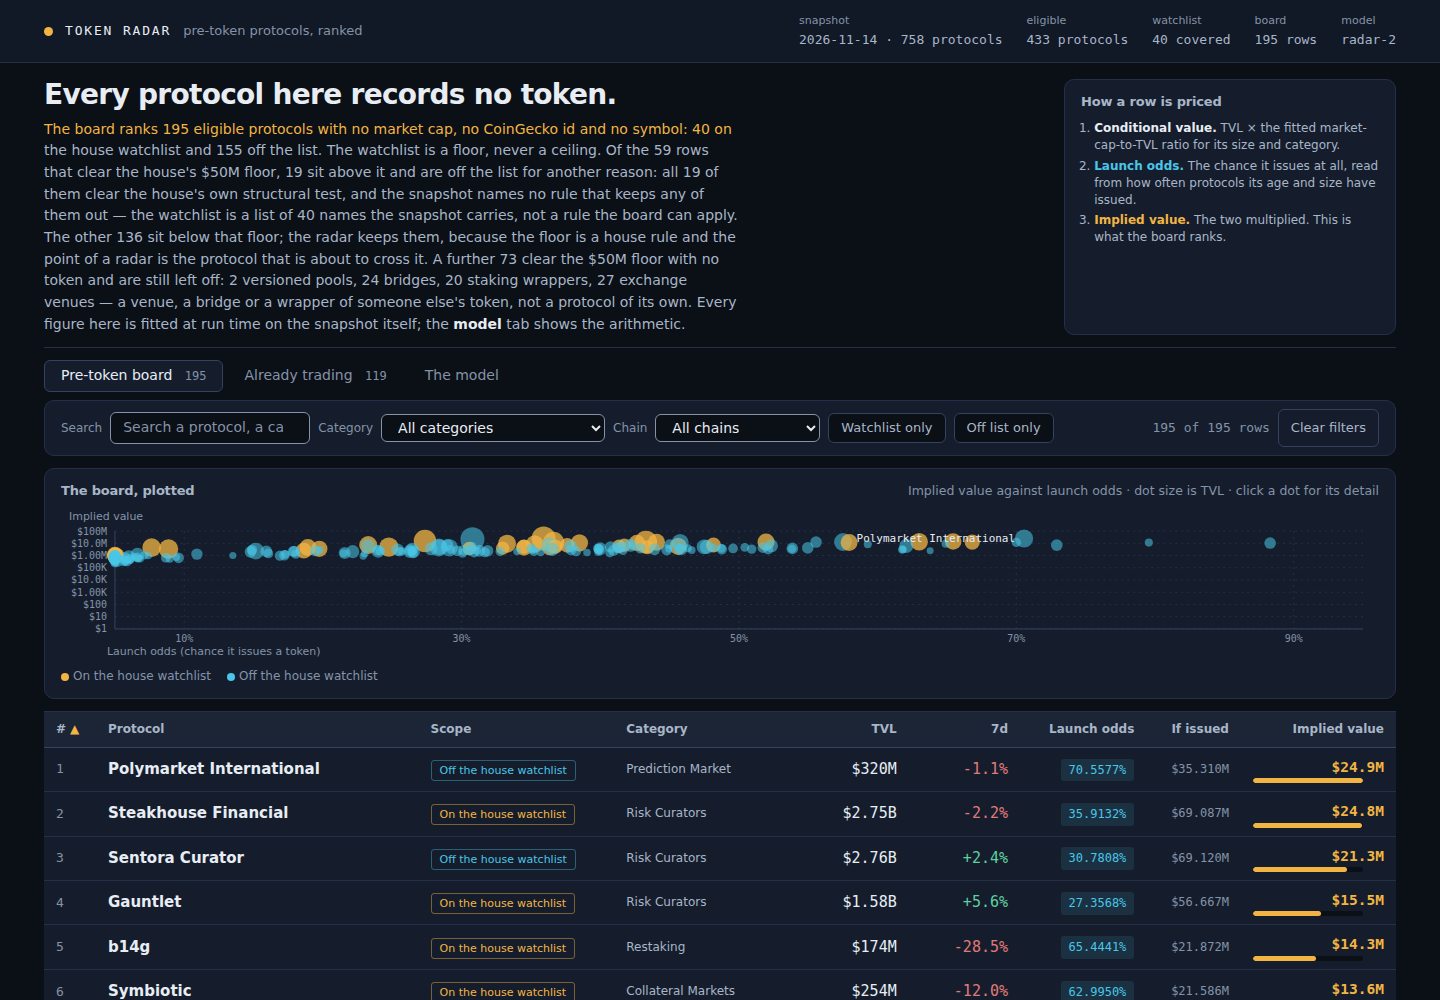
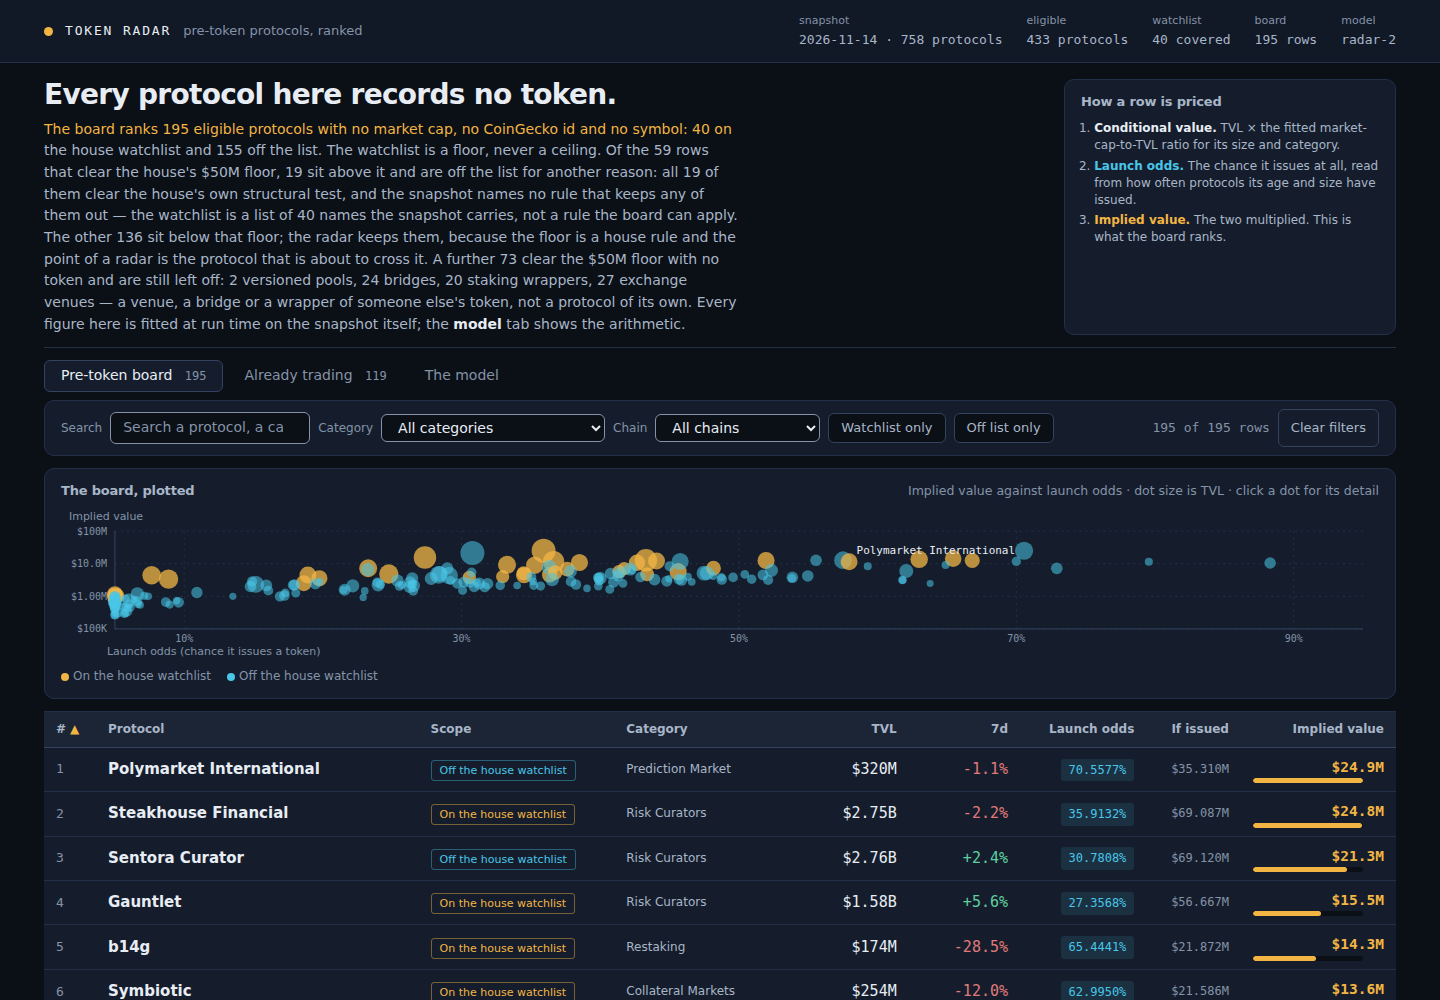
The plot's scale ran from $1, so every row landed in one decade and the judge saw a smear
The board's implied values span about two decades ($268K to $24.9M), but the
plot's y-axis ran from $1 to $100M: nine grid lines over 150px, and 136 of the
195 rows inside the single $1K-$10K one. In the judge's composed view the plot
is a horizontal band near the floor with a few dots above it, so the one picture
that shows the board's whole shape showed nothing.

The scale now brackets the DATA: its bottom is the power of ten at or below the
smallest value and its top the power of ten at or above the largest, so every
grid line is still a power of ten and the rows use 66% of the grid instead of 32%.

The gate changed with it. It asserted six or more grid lines, which was the old
scale's accident rather than its property; it now asserts what the property is
-- the rows use at least half the axis -- and carries a control that computes the
old scale from the board's own figures and requires the same measurement to
catch it.

The bytes: lg() replaces three copies of Math.log10(Math.max(..., 1)), so the
fix costs almost nothing. The dossier text is 65,529 against the 65,536 cap.

Changed region(s): [[0.1562, 0.527, 0.7188, 0.62], [0.0312, 0.527, 0.125, 0.62]]

diff --git a/dashboard/page.js b/dashboard/page.js
@@ -437,15 +437,17 @@
  var padX = parseFloat(cs.paddingLeft) + parseFloat(cs.paddingRight);
  var W = Math.max(320, Math.round((host.getBoundingClientRect().width || 1000) - padX));
  var H = 150, padL = 54, padR = 16, padT = 22, padB = 30;
- var maxV = colExtreme(list, 'implied_value_usd', 'max');
- var scaleTop = 1; while (scaleTop < maxV) scaleTop *= 10;
- var logMin = Math.log10(Math.max(colExtreme(list, 'tvl_usd', 'min'), 1));
- var logMax = Math.log10(Math.max(colExtreme(list, 'tvl_usd', 'max'), 1));
+ // The scale brackets the DATA, not the number line: the values span two decades, so an axis from $1 up left every row in one decade.
+ function lg(v) { return Math.log10(Math.max(v, 1)); }
+ var logTop = Math.ceil(lg(colExtreme(list, 'implied_value_usd', 'max')));
+ var logBottom = Math.min(logTop - 1, Math.floor(lg(colExtreme(list, 'implied_value_usd', 'min'))));
+ var logMin = lg(colExtreme(list, 'tvl_usd', 'min'));
+ var logMax = lg(colExtreme(list, 'tvl_usd', 'max'));
  function xOf(p) { return padL + (p - 0.05) / 0.9 * (W - padL - padR); }
- function yOf(v) { return padT + (1 - Math.log10(Math.max(v, 1)) / Math.log10(scaleTop)) * (H - padT - padB); }
+ function yOf(v) { return padT + (1 - (lg(v) - logBottom) / (logTop - logBottom)) * (H - padT - padB); }
   function rOf(tvl) {
  if (logMax <= logMin) return 5;
- return 3.5 + (Math.log10(Math.max(tvl, 1)) - logMin) / (logMax - logMin) * 8.5;
+ return 3.5 + (lg(tvl) - logMin) / (logMax - logMin) * 8.5;
  }
  var ns = 'http://www.w3.org/2000/svg';
  var svg = document.createElementNS(ns, 'svg');
@@ -460,7 +462,8 @@
  svg.appendChild(n);
  return n;
  }
- for (var v = 1; v <= scaleTop; v *= 10) {
+ for (var d = logBottom; d <= logTop; d++) {
+  var v = Math.pow(10, d);
  var y = yOf(v);
  add('line', { x1: padL, y1: y, x2: W - padR, y2: y, class: 'grid' });
  add('text', { x: padL - 8, y: y + 3.5, class: 'tick', 'text-anchor': 'end' }, money(v));
